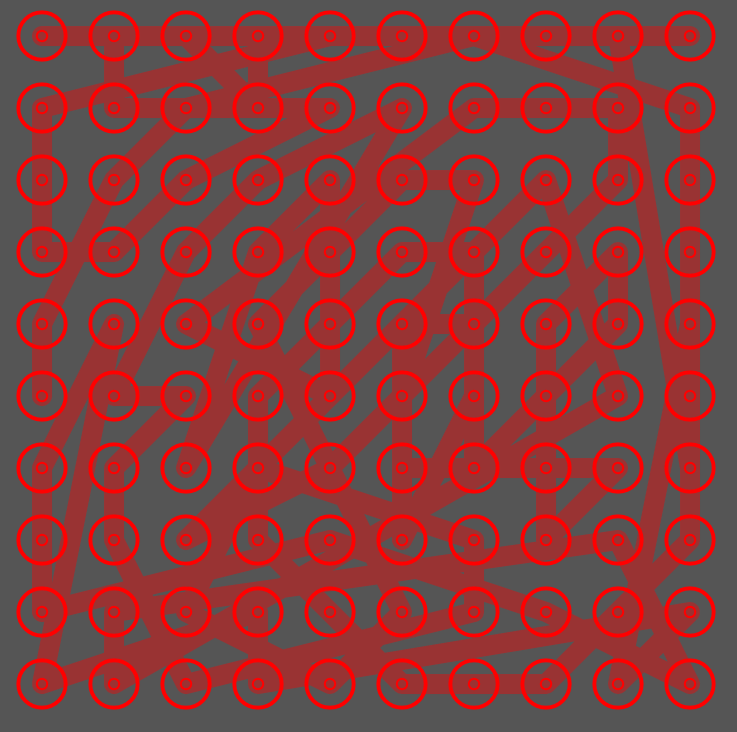
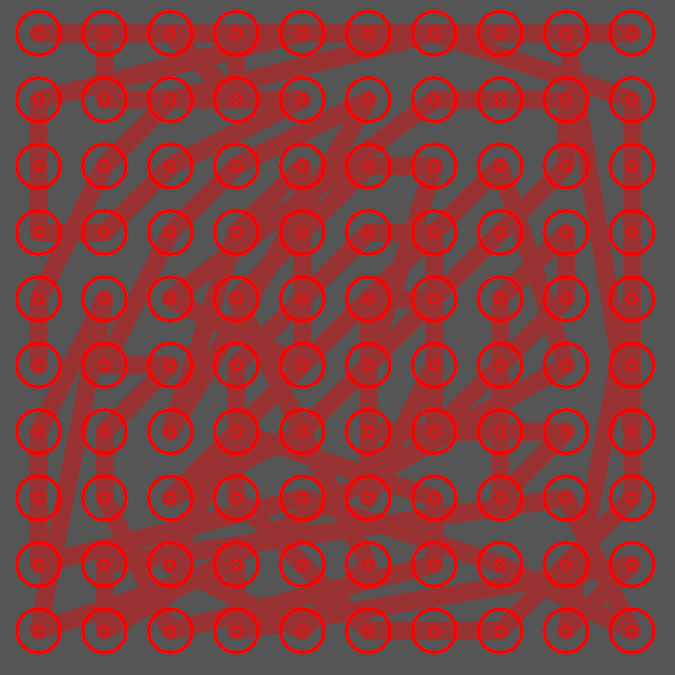
adjust images size

diff --git a/README.md b/README.md
@@ -1,5 +1,4 @@
 #GestureLock
-===========
 
 ###GestureLock是一个可以自定义数量、自定义样式的手势解锁控件
 
@@ -8,7 +7,8 @@
 
 ##用法
 
-####使用GestureLock类提供的Adapter来定制样式
+使用GestureLock类提供的Adapter来定制样式
+
 ```java
     gestureView.setAdapter(new GestureLock.GestureLockAdapter() {
 
@@ -52,17 +52,16 @@
 ```getGestureLockViewInstance(Context context, int position) block的样式```
 
 
-####继承GestureLockView来实现自定义样式的block
+继承GestureLockView来实现自定义样式的block
 
-#####重写doArrowDraw绘制箭头(箭头角度0的时候为向上)
-
-#####重写onDraw实现Block内容样式的绘制
+* 重写doArrowDraw绘制箭头(箭头角度0的时候为向上)
+* 重写onDraw实现Block内容样式的绘制
 
 Block分为三种状态
 
-* LockerState.LOCKER_STATE_NORMAL 正常状态
-* LockerState.LOCKER_STATE_SELECTED 选中状态
-* LockerState.LOCKER_STATE_ERROR 错误状态
+* LockerState.LOCKER_STATE_NORMAL `正常状态`
+* LockerState.LOCKER_STATE_SELECTED `选中状态`
+* LockerState.LOCKER_STATE_ERROR `错误状态`
 
 
 ```java
